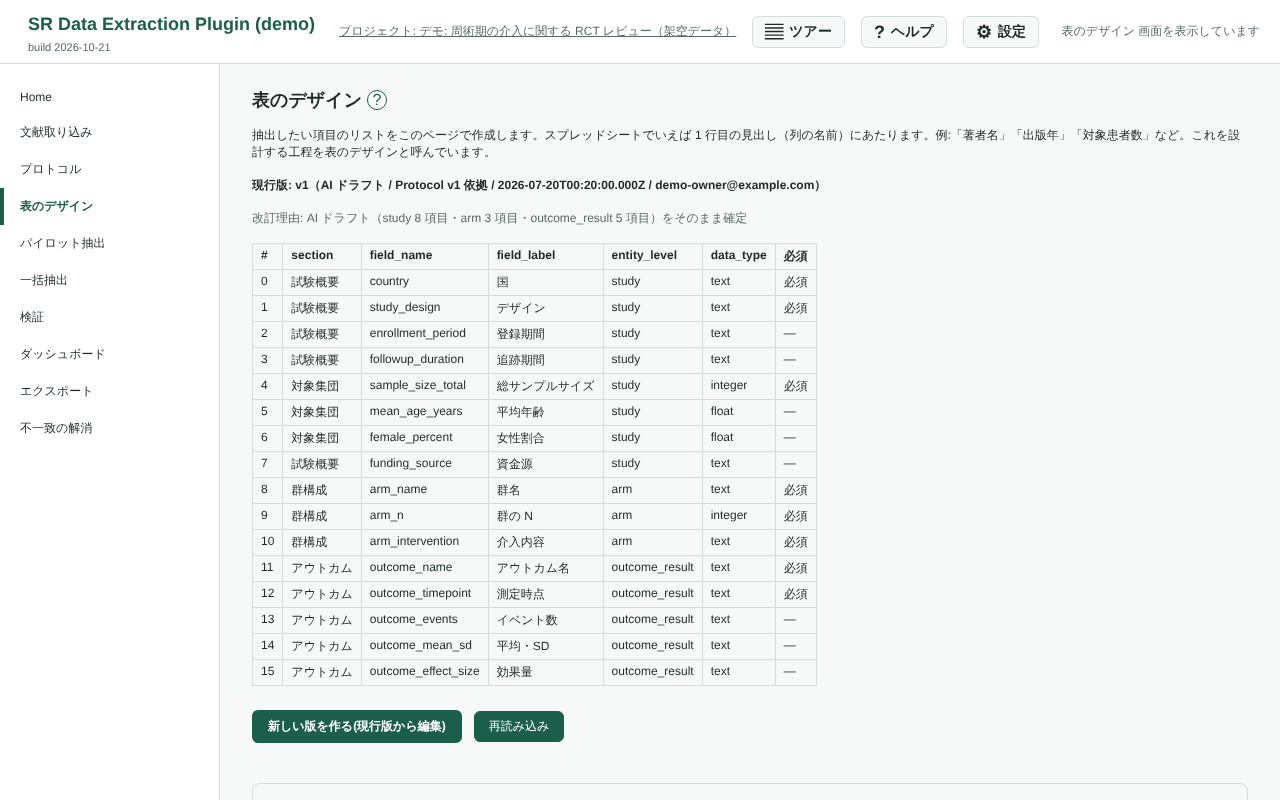
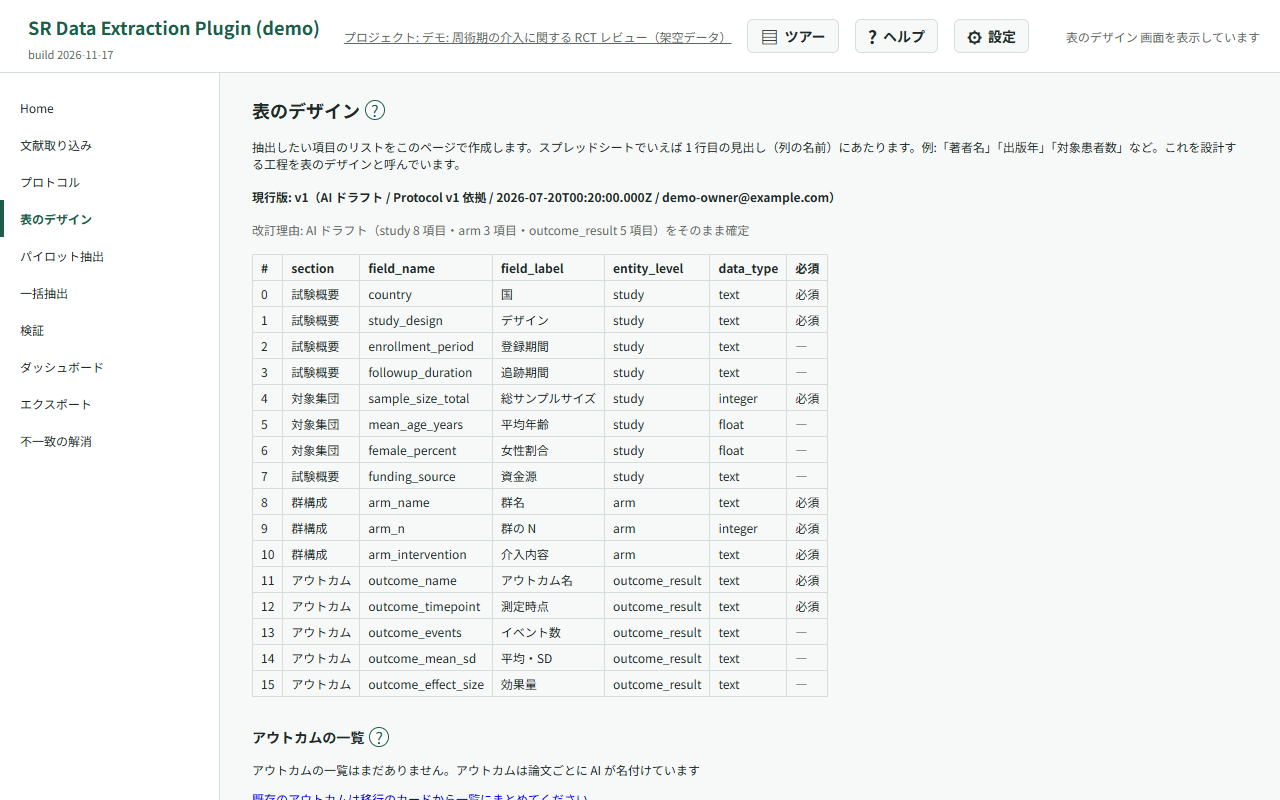
公開ページを再デプロイ（2026-11-17・master aad7ff2）

Changed region(s): [[0.1875, 0.0938, 0.9688, 1.0], [0.0, 0.0, 1.0, 0.0938], [0.0, 0.125, 0.0938, 0.5625]]

diff --git a/help.html b/help.html
@@ -3,7 +3,7 @@
      正典はこのファイル（master の hosted/）。デプロイ手順は hosted/README.md を参照。
      内容はワークフローレベルに留める（画面細部はアプリ内のリード文が担う。issue #214 §3）。
      文言は ja / en を両方持ち、表示は lang.js + CSS が片方だけに絞る（併記しない）。
-     version: 2026-11-13 -->
+     version: 2026-11-17 -->
 <html lang="ja">
   <head>
     <meta charset="utf-8" />
@@ -53,8 +53,8 @@
           <span class="en" lang="en">User guide</span>
         </h1>
         <p class="last-updated">
-          <span class="ja" lang="ja">最終更新: 2026-11-13 / 対象バージョン: v0.34.0</span>
-          <span class="en" lang="en">Last updated: 2026-11-13 / Covers v0.34.0</span>
+          <span class="ja" lang="ja">最終更新: 2026-11-17 / 対象バージョン: v0.36.0</span>
+          <span class="en" lang="en">Last updated: 2026-11-17 / Covers v0.36.0</span>
         </p>
 
         <nav class="toc" aria-label="目次" data-en-aria-label="Table of contents">
@@ -974,8 +974,8 @@
             <span class="en" lang="en">Suspected preview PDFs are listed by filename after import and before extraction. Warnings use the selected display language. If you change the selected studies while document text is being checked, processing stops; press Run again. Detection looks for repeated PREVIEW, SAMPLE, or EXCERPT lines at page endings, so it cannot identify every incomplete PDF. AI cannot extract values if the results chapter is missing. Replace the file with a full-text PDF. If a warning appears before a pilot run, press Run again after checking it to continue.</span>
           </p>
           <p>
-            <span class="ja" lang="ja">tiab-review の採用リストは、フルテキストの最新の裁定を優先します（裁定がなければ通常票の OR 合議）。裁定が maybe の文献は取り込みません。プレビューに「裁定を反映した採用件数（取り込む件数）」と「OR 合議なら採用になる件数」を表示します。裁定で採用対象外になった文献があれば、警告とタイトル一覧が出ます。フルテキスト相では、tiab-review のフルテキスト候補に入らない文献は取り込みません。候補外のため取り込み対象から外した文献は、別の警告で件数とタイトル一覧をプレビューに表示します。取り込みは続行できます。TiAb 相の採用判定は変わりません。再取り込みでも既存 study は自動除外されません。必要に応じて「study の除外」を行ってください。</span>
-            <span class="en" lang="en">The tiab-review included list uses the latest full-text adjudication, falling back to OR consensus of regular votes when there is no adjudication. A maybe adjudication is not included. The preview shows the count after adjudication (to import) and the OR consensus count. A warning lists any titles no longer included after adjudication. In the full-text phase, references outside tiab-review’s project full-text candidates are not imported. A separate preview warning shows the count and titles excluded for this reason. You can continue importing. Title/abstract phase inclusion is unchanged. Re-importing does not automatically exclude existing studies. Use “Exclude study” as needed.</span>
+            <span class="ja" lang="ja">tiab-review のキーが開封されるまでは採用リストと件数を表示しません。Config・LLM_Runs・LLM_Executions の読み込みに失敗した場合も、エラーを表示して中断し、採用リストと件数は表示しません。古いシートでタブが無い場合（HTTP 400）だけ、設定や有効な AI 実行が無いものとして扱います。tiab-review で重複として除外した文献は取り込みません。tiab-review の採用リストは、フルテキストの最新の裁定を優先します（裁定がなければ通常票の OR 合議）。裁定が maybe の文献は取り込みません。プレビューに「裁定を反映した採用件数（取り込む件数）」と「OR 合議なら採用になる件数」を表示します。裁定で採用対象外になった文献があれば、警告とタイトル一覧が出ます。フルテキスト相では、tiab-review のフルテキスト候補に入らない文献は取り込みません。候補外のため取り込み対象から外した文献は、別の警告で件数とタイトル一覧をプレビューに表示します。取り込みは続行できます。TiAb 相の採用判定は変わりません。再取り込みでも既存 study は自動除外されません。必要に応じて「study の除外」を行ってください。</span>
+            <span class="en" lang="en">The included list and counts are not shown until the tiab-review key is opened. If Config, LLM_Runs, or LLM_Executions cannot be read, an error is shown and loading stops without displaying the included list or counts. Only missing tabs in older sheets (HTTP 400) are treated as absent settings or active AI executions. References removed as duplicates in tiab-review are not imported. The tiab-review included list uses the latest full-text adjudication, falling back to OR consensus of regular votes when there is no adjudication. A maybe adjudication is not included. The preview shows the count after adjudication (to import) and the OR consensus count. A warning lists any titles no longer included after adjudication. In the full-text phase, references outside tiab-review’s project full-text candidates are not imported. A separate preview warning shows the count and titles excluded for this reason. You can continue importing. Title/abstract phase inclusion is unchanged. Re-importing does not automatically exclude existing studies. Use “Exclude study” as needed.</span>
           </p>
           <figure class="shot shot--screen">
             <a href="screenshots/help-03-documents.png" target="_blank" rel="noopener noreferrer">
@@ -1291,6 +1291,47 @@
               >
             </p>
           </div>
+          <h3 id="schema-outcomes">
+            <span class="ja" lang="ja">アウトカムの一覧</span>
+            <span class="en" lang="en">Outcome list</span>
+          </h3>
+          <div class="help-when">
+            <p class="help-when-label">
+              <span class="ja" lang="ja">こんなとき</span>
+              <span class="en" lang="en">When to read this</span>
+            </p>
+            <ul>
+              <li>
+                <span class="ja" lang="ja">プロジェクト全体でアウトカムの名前をそろえたい</span>
+                <span class="en" lang="en">I want a consistent outcome list across the project</span>
+              </li>
+              <li>
+                <span class="ja" lang="ja">アウトカムを一覧から外したり、戻したりしたい</span>
+                <span class="en" lang="en">I want to remove or restore an outcome in the list</span>
+              </li>
+            </ul>
+          </div>
+          <p>
+            <span class="ja" lang="ja">既存の論文単位のアウトカムがある場合は、「アウトカムの一覧を作る」カードで取り込む id と表示名を確かめます。同じアウトカムに異なる id が付いているときは「別名としてまとめる先」で統合できます。両方にあるセルの件数を表示し、人が判定した方、両方が判定済みならまとめ先の値を使います。一覧に入れない id に判定済みのセルがある場合は、確定前に確認します。移行後の判定・取り消しと、人が編集した引用も再読み込み時に引き継ぎます。保存済みの監査履歴は残ります。</span>
+            <span class="en" lang="en">For existing paper-level outcomes, use “Create an outcome list” to select ids and check their display names. Use “Merge as an alias of” to combine different ids for the same outcome. The card shows overlapping cells: judged human values take precedence, with the target winning if both are judged. Excluding ids with judged cells requires confirmation. Subsequent decisions and undo operations, along with human-edited quotes, are preserved on reload. Saved audit history is retained.</span>
+          </p>
+          <p>
+            <span class="ja" lang="ja">初回の AI ドラフトは、プロトコルから決められるときにアウトカムの一覧の案も出します。版として確定する前に、一覧を確かめて直せます。</span>
+            <span class="en" lang="en">The initial AI draft also proposes an outcome list when it can be determined from the protocol. Check and edit the list before confirming it as a version.</span>
+          </p>
+          <p>
+            <span class="ja" lang="ja">編集中の「アウトカムの一覧」で、プロジェクト全体のアウトカムをそろえます。表示名・説明・主な時点を入力し、上下のボタンで順番を変え、「版として確定」で保存します。id は確定後に変えられませんが、表示名は後の版で変更できます。主な時点は | 区切りの参考値で、時点を一覧で固定するものではありません。</span>
+            <span class="en" lang="en">Use the “Outcome list” while editing to align outcomes across the project. Enter a display name, description, and typical timepoints, use the up and down buttons to reorder, then save with “Confirm as a version”. Once confirmed, an id cannot be changed; its display name can be changed in a later version. Typical timepoints are reference values separated by | and do not fix timepoints in the list.</span>
+          </p>
+          <p>
+            <span class="ja" lang="ja">判定済みのセルがあるアウトカムを外すときは、セル数と論文数を示す確認が出ます。判定の記録は消えません。「外したアウトカムを戻す」で過去の id を選ぶと、最後に載っていた版の名称・説明・主な時点で戻せます。一覧モードでは最後のアウトカムは外せません。JSON のスキーマファイルには一覧も含まれ、CSV には含まれません。</span>
+            <span class="en" lang="en">Removing an outcome with judged cells asks for confirmation and shows the numbers of cells and papers. Decision records are retained. Select a past id under “Restore a removed outcome” to restore its name, description, and typical timepoints from the last version that included it. In list mode, the last outcome cannot be removed. JSON schema files include the list; CSV files do not.</span>
+          </p>
+
+          <p>
+            <span class="ja" lang="ja">一覧のアウトカムは AI が見つけなくても、確定済みの群ごとの空セルとして出ます。人が not_reported などで判定してください。AI が一覧に無いアウトカムを見つけると、欄外に「一覧外の候補」として出ます。パイロットでは候補から表のデザインに追加でき、本番の検証と裁定では owner がスキーマ編集画面から追加します。</span>
+            <span class="en" lang="en">Listed outcomes appear as empty cells for confirmed arms even when AI finds no result. A person must judge them, for example as not_reported. Outcomes found by AI outside the list appear separately as “Candidates outside the list”. During the pilot, candidates can be added to the schema directly; during verification and adjudication, the owner adds them from the schema editor.</span>
+          </p>
         </section>
 
         <section id="pilot">
@@ -1937,6 +1978,11 @@
               >Verification, pilot and “Resolve conflicts” screens show the number of pending saves, for example “Saving (1)”. Keep the tab open until the indicator disappears. If you try to close, reload or otherwise leave the page while saves are pending, the browser asks for confirmation.</span
             >
           </p>
+
+          <p>
+            <span class="ja" lang="ja">一覧のアウトカムは AI が見つけなくても、確定済みの群ごとの空セルとして出ます。人が not_reported などで判定してください。AI が一覧に無いアウトカムを見つけると、欄外に「一覧外の候補」として出ます。パイロットでは候補から表のデザインに追加でき、本番の検証と裁定では owner がスキーマ編集画面から追加します。</span>
+            <span class="en" lang="en">Listed outcomes appear as empty cells for confirmed arms even when AI finds no result. A person must judge them, for example as not_reported. Outcomes found by AI outside the list appear separately as “Candidates outside the list”. During the pilot, candidates can be added to the schema directly; during verification and adjudication, the owner adds them from the schema editor.</span>
+          </p>
         </section>
 
         <section id="dashboard">
@@ -2309,6 +2355,12 @@
             </table>
           </div>
           <p>
+            <span class="ja" lang="ja"><code>audit.csv</code> の末尾の <code>app_version</code> は判定をシートへ追記したときのアプリの版（オフライン再送も追記時の版）、<code>run_app_version</code> は添付した AI 根拠の抽出実行時のアプリの版です。
+              古い行や取得不能で版が未記録なら空欄、対応する判定がない未検証行の <code>app_version</code> や、添付した AI 根拠または対応する実行がない行の <code>run_app_version</code> は <code>.</code>（構造的欠損）になります。</span>
+            <span class="en" lang="en">The final columns of <code>audit.csv</code> are <code>app_version</code>, the app version when the decision was appended to the sheet (including when an offline decision is resent), and <code>run_app_version</code>, the app version used for the extraction run of the attached AI evidence.
+              A version is blank if it was not recorded in an older row or could not be obtained; <code>app_version</code> is <code>.</code> (structural missingness) for an unverified row with no decision, as is <code>run_app_version</code> when there is no attached AI evidence or corresponding run.</span>
+          </p>
+          <p>
             <span class="ja" lang="ja">確認途中で考察やミーティングの準備に使うときは、「未確認分を AI の値で補う（仮エクスポート）」をオンにします（既定はオフ）。study_wide / results_long のみ、未確認の文献・セルを AI の値で補います。最終データではありません。人が確認していない AI の値を含みます。wide の各項目の <code>{field}__source</code> 列、long の <code>source</code> 列で <code>human</code>（人の確認済み）/ <code>consensus</code>（裁定済み）/ <code>ai_unverified</code>（未確認）を区別し、ファイル名に <code>_draft</code> が付きます。audit・R セット・Methods 文案・根拠の表には影響しません。最終データを出すときはオフに戻してください。</span>
             <span class="en" lang="en">For discussion or meeting preparation while verification is ongoing, enable “Fill unverified cells with AI values (draft export)” (off by default). Only study_wide and results_long fill unverified studies and cells with AI values. This is not final data: it includes AI values that have not been verified by a human. Each wide field has a <code>{field}__source</code> column; long has a <code>source</code> column: <code>human</code> (verified), <code>consensus</code> (adjudicated), or <code>ai_unverified</code> (unverified). Filenames include <code>_draft</code>. Audit, R sets, Methods text and evidence quotes remain unchanged. Turn this option off when exporting final data.</span>
           </p>
@@ -2411,6 +2463,11 @@
             <span class="en" lang="en"
               >On the export screen, the owner presses “Generate usage CSV” under “Cost and usage CSV”. This writes calls, tokens and estimated costs for all purposes, as totals and by run and month, to <code>usage.csv</code> in Drive. After generation, “Save locally” is also available. This is separate from exporting extracted data and does not require confirmation about unverified cells.</span
             >
+          </p>
+
+          <p>
+            <span class="ja" lang="ja">一覧に無いアウトカムと、それを参照する RoB の評価は、audit.csv を除くエクスポートに出ません。追加したアウトカムの空セルも未検証の警告に含みます。ma.csv の outcome_label は一覧の表示名になり、論文ごとの表記は outcome_name 列にだけ残ります。</span>
+            <span class="en" lang="en">Outcomes outside the list and RoB assessments referring to them are excluded from exports except audit.csv. Empty cells for added outcomes also count toward unverified warnings. In ma.csv, outcome_label uses the list display name; paper-specific wording remains only in outcome_name.</span>
           </p>
         </section>
 
@@ -2923,6 +2980,10 @@
                 when you use a free tier.</span
               >
             </p>
+            <p>
+              <span class="ja" lang="ja">Gemini 3.6 / 3.7 / 3.8 Flash の概算単価は、2027-01-01 0:00 UTC に入力 $0.75 / 出力 $3.75 から入力 $1.50 / 出力 $7.50（100 万トークンあたり）へ切り替わります。キャッシュ入力は入力単価 × 0.10 の導出値です。送信前の見積もりは現在時刻、実績は API 呼び出しの開始時刻で単価を選びます。保存済みの費用は再計算しません。</span>
+              <span class="en" lang="en">Estimated rates for Gemini 3.6 / 3.7 / 3.8 Flash switch from $0.75 input / $3.75 output to $1.50 input / $7.50 output per million tokens at 00:00 UTC on January 1, 2027. Cached input is derived as input × 0.10. Estimates use the current time; actual costs use the API call start time. Stored costs are not recalculated.</span>
+            </p>
           </details>
 
           <details class="faq" id="faq-model">
@@ -2966,13 +3027,13 @@
                 >既定モデル・プロンプトの版数・推論の強さの既定・集計方法など、AI の結果に影響する変更は、版ごとに公開の<a
                   href="https://github.com/youkiti/sr-data-extraction-plugin/blob/master/CHANGELOG.md"
                   >変更履歴（CHANGELOG）</a
-                >に載せています。更新のあとに結果の傾向が変わったと感じたら、まずここを確かめてください。</span
+                >に載せています。更新のあとに結果の傾向が変わったと感じたら、まずここを確かめてください。値・判定・集計・エクスポート・Methods に影響した不具合の版の範囲と、シートでの確認・対処は<a href="https://github.com/youkiti/sr-data-extraction-plugin/blob/master/KNOWN_ISSUES.md">既知の不具合</a>にまとめています。</span
               >
               <span class="en" lang="en"
                 >Every change that affects AI output, such as the default model, prompt versions, the default reasoning effort or counting methods, is listed version by version in the public <a
                   href="https://github.com/youkiti/sr-data-extraction-plugin/blob/master/CHANGELOG.md"
                   >CHANGELOG</a
-                >. If results seem to shift after an update, check it first.</span
+                >. If results seem to shift after an update, check it first. For bugs affecting values, decisions, aggregates, exports or Methods, see <a href="https://github.com/youkiti/sr-data-extraction-plugin/blob/master/KNOWN_ISSUES.en.md">Known issues</a> for affected versions, sheet checks and remedies.</span
               >
             </p>
           </details>
@@ -3073,6 +3134,42 @@
                 >Delete the project files in your Google Drive / Sheets and uninstall the extension; Chrome removes the
                 in-browser settings (API keys and so on) with it.</span
               >
+            </p>
+          </details>
+
+          <details class="faq" id="faq-citation">
+            <summary>
+              <span class="ja" lang="ja">引用方法</span>
+              <span class="en" lang="en">How to cite</span>
+            </summary>
+            <div class="help-when">
+              <p class="help-when-label">
+                <span class="ja" lang="ja">こんなとき</span>
+                <span class="en" lang="en">When to read this</span>
+              </p>
+              <ul>
+                <li>
+                  <span class="ja" lang="ja">論文で本ツールを引用したい</span>
+                  <span class="en" lang="en">I want to cite this tool in a paper</span>
+                </li>
+                <li>
+                  <span class="ja" lang="ja">利用した版の引用情報を確認したい</span>
+                  <span class="en" lang="en">I want to find citation metadata for the version I used</span>
+                </li>
+              </ul>
+            </div>
+            <p>
+              <span class="ja" lang="ja"><a href="https://github.com/youkiti/sr-data-extraction-plugin/blob/master/CITATION.cff">CITATION.cff</a>
+                の著者・版の情報で引用してください。GitHub のリポジトリ画面の「Cite this repository」から引用形式をコピーできます。
+                利用した版は <code>chrome://extensions</code> で確認できます。</span>
+              <span class="en" lang="en">Use the authors and version in
+                <a href="https://github.com/youkiti/sr-data-extraction-plugin/blob/master/CITATION.cff">CITATION.cff</a>.
+                Select “Cite this repository” on GitHub to copy a formatted citation.
+                Check the version you used at <code>chrome://extensions</code>.</span>
+            </p>
+            <p>
+              <span class="ja" lang="ja">TODO: 初回の Zenodo リリース後に DOI のバッジとリンクを追加します。特定の版の引用には、その版の DOI を使用してください。</span>
+              <span class="en" lang="en">TODO: add the DOI badge and link after the first Zenodo release. To cite a specific version, use that version's DOI.</span>
             </p>
           </details>
 
